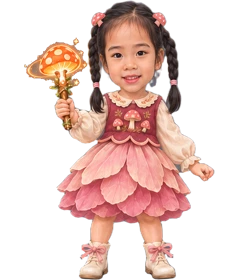
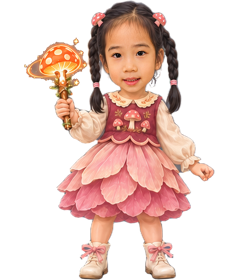
Nấm mặc Công Chúa Hoa Nấm và thêm sáu bộ đồ đôi

Changed region(s): [[0.4667, 0.1429, 0.7, 0.3143], [0.175, 0.1714, 0.35, 0.2857]]

diff --git a/wardrobe.js b/wardrobe.js
@@ -15,7 +15,7 @@
   const foot=el('footer','mw-foot'),back=el('button','mw-btn','Quay lại'),waiting=el('div','mw-wait'),ready=el('button','mw-btn mw-primary','Vào màn');back.dataset.action='back';ready.dataset.action='ready';foot.append(back,waiting,ready);shell.append(head,main,foot);root.append(backdrop,shell);document.body.appendChild(root);
   let opened=false,selected='',hero='',theme='',items=[],frame=null,loading=false,pending=false,entering=false,error='',serial=0,session=0,previousFocus=null,state={self:false,partner:false,coop:false};
   const equipped=()=>hooks.equipped()||'',busy=()=>opened&&(loading||pending||entering);
-  function catalog(){items=[{id:'',char:hero,name:'Trang phục ban đầu',theme:'Cơ bản'},...(hooks.catalog()||[]).filter(x=>x.char===hero&&x.id).map(x=>({...x,theme:x.theme||'Phiêu lưu'}))];const rank=x=>!x.id?-1:x.id.endsWith('.snow11')?0:x.id.endsWith('.snow12')?1:({castle:2,pirate:3,snow:4,lava:5}[x.theme]??6);items.sort((a,b)=>rank(a)-rank(b));}
+  function catalog(){items=[{id:'',char:hero,name:hero==='n'?'Công Chúa Hoa Nấm':'Trang phục ban đầu',theme:'Cơ bản'},...(hooks.catalog()||[]).filter(x=>x.char===hero&&x.id).map(x=>({...x,theme:x.theme||'Phiêu lưu'}))];const rank=x=>!x.id?-1:x.id.endsWith('.snow11')?0:x.id.endsWith('.snow12')?1:({castle:2,pirate:3,snow:4,lava:5}[x.theme]??6);items.sort((a,b)=>rank(a)-rank(b));}
   function current(){return items.find(x=>x.id===selected)||items[0];}
   function draw(){const ctx=canvas.getContext('2d');ctx.clearRect(0,0,600,600);if(!frame||loading||error)return;const w=Number(frame.w)||frame.img.width,h=Number(frame.h)||frame.img.height;if(!(w>0&&h>0))throw Error('Invalid preview dimensions');const scale=Math.min(550/w,550/h);ctx.drawImage(frame.img,frame.sx||0,frame.sy||0,w,h,(600-w*scale)/2,(600-h*scale)/2,w*scale,h*scale);}
   let cardKey='',cardNodes=[];
@@ -26,7 +26,7 @@
       visible.forEach((x,i)=>{
         const b=el('button','mw-card'),thumb=el('img','mw-thumb'),label=el('span','',x.name),detail=el('small');
         b.dataset.action='select:'+x.id;thumb.alt=x.name;thumb.loading=i<6?'eager':'lazy';thumb.decoding='async';thumb.width=240;thumb.height=280;
-        thumb.src=hero==='b'?'gom-assets/'+(x.id?x.id.slice(2):'base')+'/selection.webp':hero==='n'?'nam-assets/'+(x.id?x.id.slice(2):'base')+'/thumb.webp':'wardrobe-assets/thumbnails/'+(x.id||hero+'.base')+'.webp';
+        thumb.src=hero==='b'?'gom-assets/'+(x.id?x.id.slice(2):'base')+'/selection.webp':hero==='n'?'nam-assets/'+(x.id?x.id.slice(2):'base')+'/thumb.webp?v='+encodeURIComponent(hooks.assetVersion||''):'wardrobe-assets/thumbnails/'+(x.id||hero+'.base')+'.webp';
         if(hero==='b')thumb.onerror=()=>{thumb.onerror=null;thumb.src='gom-assets/'+(x.id?x.id.slice(2):'base')+'/thumb.webp';};
         b.append(thumb,label,detail);b.onclick=()=>{if(pending||entering)return;selected=x.id;load();};list.appendChild(b);cardNodes.push({b,detail,x});
       });

diff --git a/index.html b/index.html
@@ -256,7 +256,7 @@
 
 <div id="rotate">Xoay ngang iPad để chơi nhé</div>
 
-<script src="wardrobe.js?v=261106.2010"></script>
+<script src="wardrobe.js?v=261107.1126"></script>
 <script>
 (() => {
   "use strict";
@@ -309,7 +309,7 @@
   }
   function loadImg(src) { return new Promise((res, rej) => { const i = new Image(); i.onload = () => res(i); i.onerror = rej; i.src = src; }); }
   // ---------------------------------------------------------------- version: the site build stamps BUILD_VER and writes version.json beside the page
-  const BUILD_VER = "261106.2010", isBuilt = !BUILD_VER.startsWith("__");
+  const BUILD_VER = "261107.1126", isBuilt = !BUILD_VER.startsWith("__");
   async function latestVer() {
     try { return (await (await fetch("version.json?x=" + Date.now(), { cache: "no-store" })).json()).v; } catch (e) { return null; }
   }
@@ -846,7 +846,7 @@
     // Nấm's independent atlas must remain available if the shared catalog is offline.
     try {
       const nr=await fetch('nam-assets/catalog.json?v='+encodeURIComponent(BUILD_VER),{cache:'no-cache'}),nm=await nr.json();
-      const allowed=new Set(['mushroom','autumn','starlight']),seen=new Set();
+      const allowed=new Set(['mushroom', 'autumn', 'starlight', 'castle1', 'castle2', 'castle3', 'castle4', 'snow11', 'pirate3']),seen=new Set();
       for(const o of nm.catalog||[])if(o?.char==='n'&&allowed.has(o.outfit)&&o.id==='n.'+o.outfit&&!seen.has(o.id)){
         seen.add(o.id);WARD.catalog.push({...o,price:10,nam:true});
       }
@@ -880,7 +880,7 @@
     const stand = await wardLoad(id);
     return hero === "b" ? (await gomSelection(id ? id.slice(2) : "base").promise) || stand : stand;
   }
-  function wardInitUI(){if(WARD.ui||!window.createMeadowWardrobe)return;WARD.ui=window.createMeadowWardrobe({hero:()=>hero,heroName:()=>HD().name,catalog:()=>WARD.catalog,coins:()=>G.stars,equipped:()=>outfit[hero],load:wardPreview,wear:wardWear,ready:wardReady,back:toTitle,label:()=>LEVELS[G.level].name,background:'wardrobe-assets/background.webp'});}
+  function wardInitUI(){if(WARD.ui||!window.createMeadowWardrobe)return;WARD.ui=window.createMeadowWardrobe({hero:()=>hero,heroName:()=>HD().name,catalog:()=>WARD.catalog,coins:()=>G.stars,equipped:()=>outfit[hero],load:wardPreview,wear:wardWear,ready:wardReady,back:toTitle,label:()=>LEVELS[G.level].name,assetVersion:BUILD_VER,background:'wardrobe-assets/background.webp'});}
   function wardOpen(fromNet=false,epoch=null){
     if(epoch!==null&&WARD.open&&WARD.epoch===epoch)return;
     WARD.epoch=epoch===null?WARD.epoch+1:epoch;WARD.open=true;WARD.ready=false;WARD.partnerReady=false;G.mode='shop';P.vx=P.vy=0;P.moving=false;
